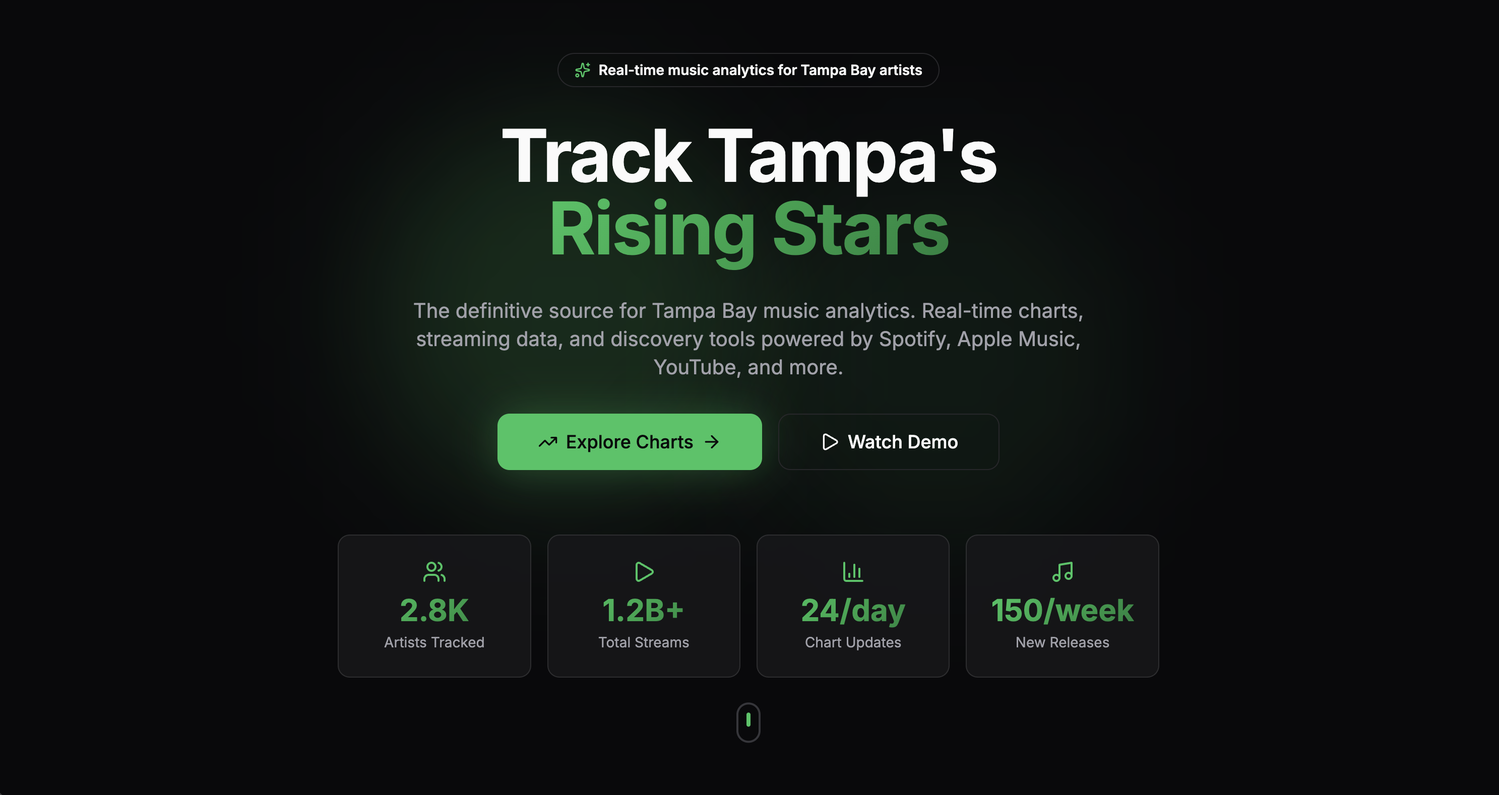
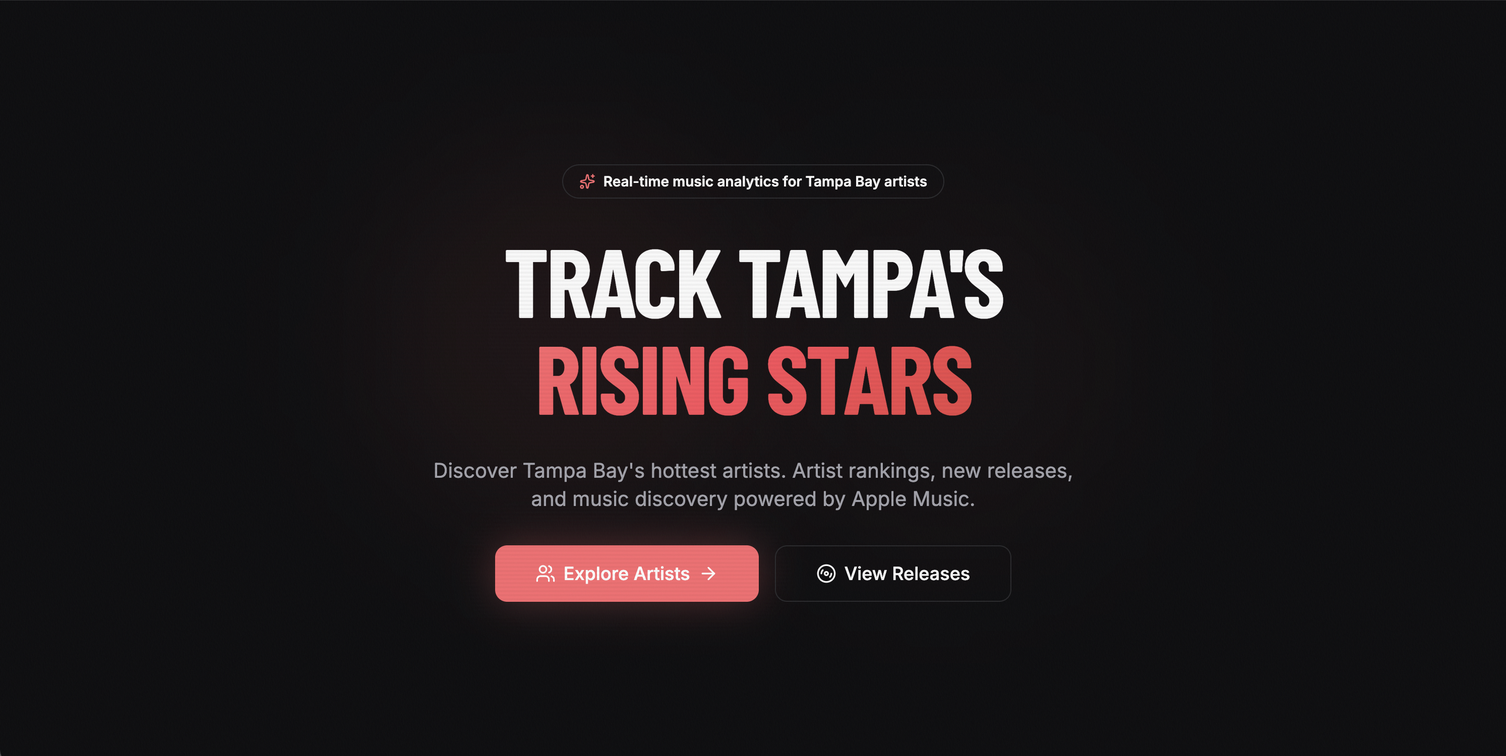
Update social share image and enable St. Pete + Clearwater signups

Changed region(s): [[0.2784, 0.1533, 0.7115, 0.6747], [0.2475, 0.7053, 0.7734, 0.828], [0.4022, 0.0613, 0.6187, 0.092]]

diff --git a/frontend/src/components/auth/AuthModal.jsx b/frontend/src/components/auth/AuthModal.jsx
@@ -42,8 +42,8 @@ import {
 // Florida cities - Tampa is active, others coming soon
 const FLORIDA_CITIES = [
   { name: 'Tampa', active: true, region: 'Tampa Bay' },
-  { name: 'St. Petersburg', active: false, region: 'Tampa Bay' },
-  { name: 'Clearwater', active: false, region: 'Tampa Bay' },
+  { name: 'St. Petersburg', active: true, region: 'Tampa Bay' },
+  { name: 'Clearwater', active: true, region: 'Tampa Bay' },
   { name: 'Brandon', active: false, region: 'Tampa Bay' },
   { name: 'Miami', active: false, region: 'South Florida' },
   { name: 'Fort Lauderdale', active: false, region: 'South Florida' },
@@ -106,11 +106,11 @@ export function AuthModal({ isOpen, onClose, defaultTab = 'signup' }) {
 
   const selectedCity = signUpForm.watch('city')
   const selectedCityData = FLORIDA_CITIES.find(c => c.name === selectedCity)
-  const isTampaResident = selectedCity === 'Tampa'
+  const isCityActive = !!selectedCityData?.active
 
   const handleSignUp = async (data) => {
-    if (!isTampaResident) {
-      setError('Only Tampa residents can sign up at this time. Other cities coming soon!')
+    if (!isCityActive) {
+      setError('Sign ups are not yet available in your city. Coming soon!')
       return
     }
 
@@ -433,18 +433,18 @@ export function AuthModal({ isOpen, onClose, defaultTab = 'signup' }) {
                       )}
                     </div>
 
-                    {/* Tampa Verification Notice */}
+                    {/* City Verification Notice */}
                     {selectedCity && (
                       <div className={`p-4 rounded-lg border ${
-                        isTampaResident
+                        isCityActive
                           ? 'bg-green-500/10 border-green-500/20'
                           : 'bg-yellow-500/10 border-yellow-500/20'
                       }`}>
-                        {isTampaResident ? (
+                        {isCityActive ? (
                           <div className="flex items-start gap-3">
                             <CheckCircle2 className="w-5 h-5 text-green-400 flex-shrink-0 mt-0.5" />
                             <div>
-                              <p className="text-sm font-medium text-green-400">Tampa Resident Verified</p>
+                              <p className="text-sm font-medium text-green-400">{selectedCity} Resident Verified</p>
                               <p className="text-xs text-muted-foreground mt-1">
                                 {accountType === 'fan'
                                   ? "Welcome to Tampa Bay's music scene! Discover, follow, and support local artists."
@@ -467,7 +467,7 @@ export function AuthModal({ isOpen, onClose, defaultTab = 'signup' }) {
                     )}
 
                     {/* Region Display */}
-                    {isTampaResident && (
+                    {isCityActive && (
                       <div className="p-3 bg-primary/10 border border-primary/20 rounded-lg">
                         <div className="flex items-center gap-2">
                           <MapPin className="w-4 h-4 text-primary" />
@@ -481,14 +481,14 @@ export function AuthModal({ isOpen, onClose, defaultTab = 'signup' }) {
                     <Button
                       type="submit"
                       className="w-full gap-2"
-                      disabled={isLoading || !isTampaResident}
+                      disabled={isLoading || !isCityActive}
                     >
                       {isLoading ? (
                         <>
                           <Loader2 className="w-4 h-4 animate-spin" />
                           Creating account...
                         </>
-                      ) : !isTampaResident ? (
+                      ) : !isCityActive ? (
                         <>
                           <Clock className="w-4 h-4" />
                           Join Waitlist

diff --git a/frontend/index.html b/frontend/index.html
@@ -17,8 +17,8 @@
     <meta property="og:title" content="Tampa Mixtape - Tampa Bay's Music Radar" />
     <meta property="og:description" content="Discover Tampa Bay's hottest artists. Artist rankings, new releases, and music discovery powered by Spotify." />
     <meta property="og:image" content="https://tampamixtape.com/og-image.png" />
-    <meta property="og:image:width" content="2974" />
-    <meta property="og:image:height" content="1578" />
+    <meta property="og:image:width" content="2987" />
+    <meta property="og:image:height" content="1500" />
 
     <!-- Twitter -->
     <meta property="twitter:card" content="summary_large_image" />
